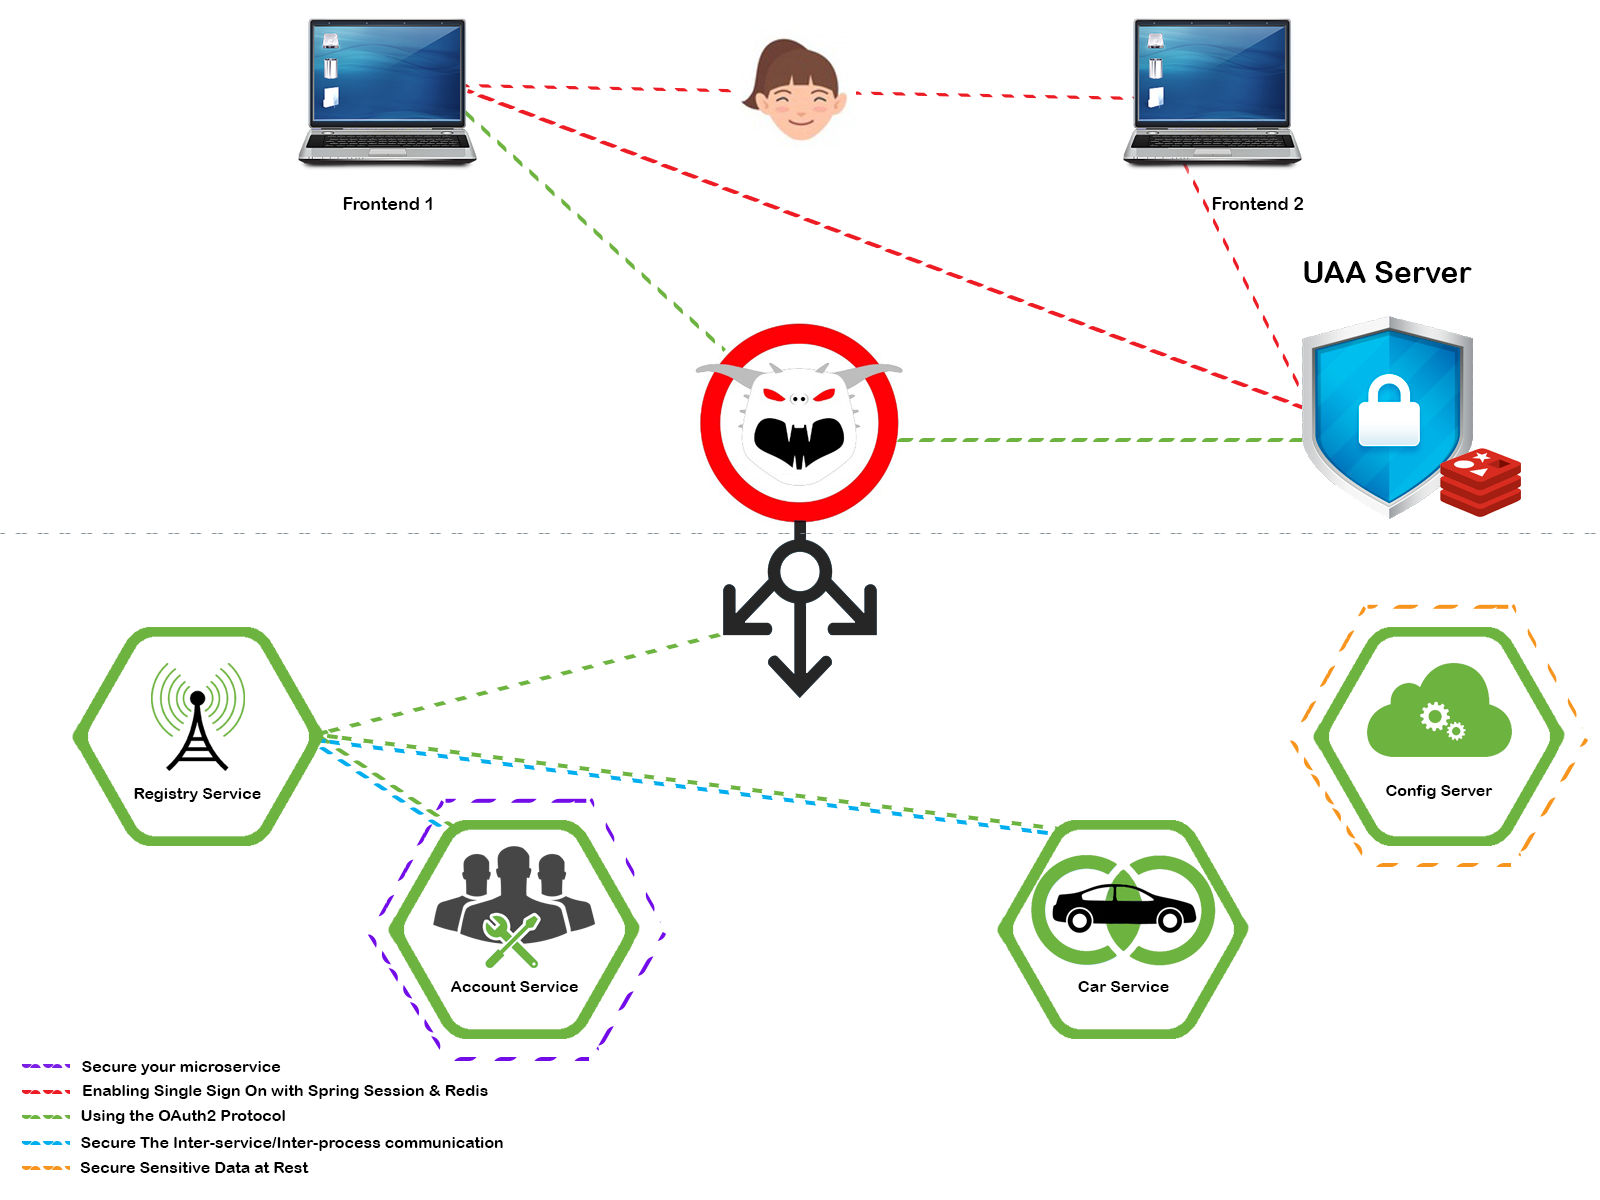
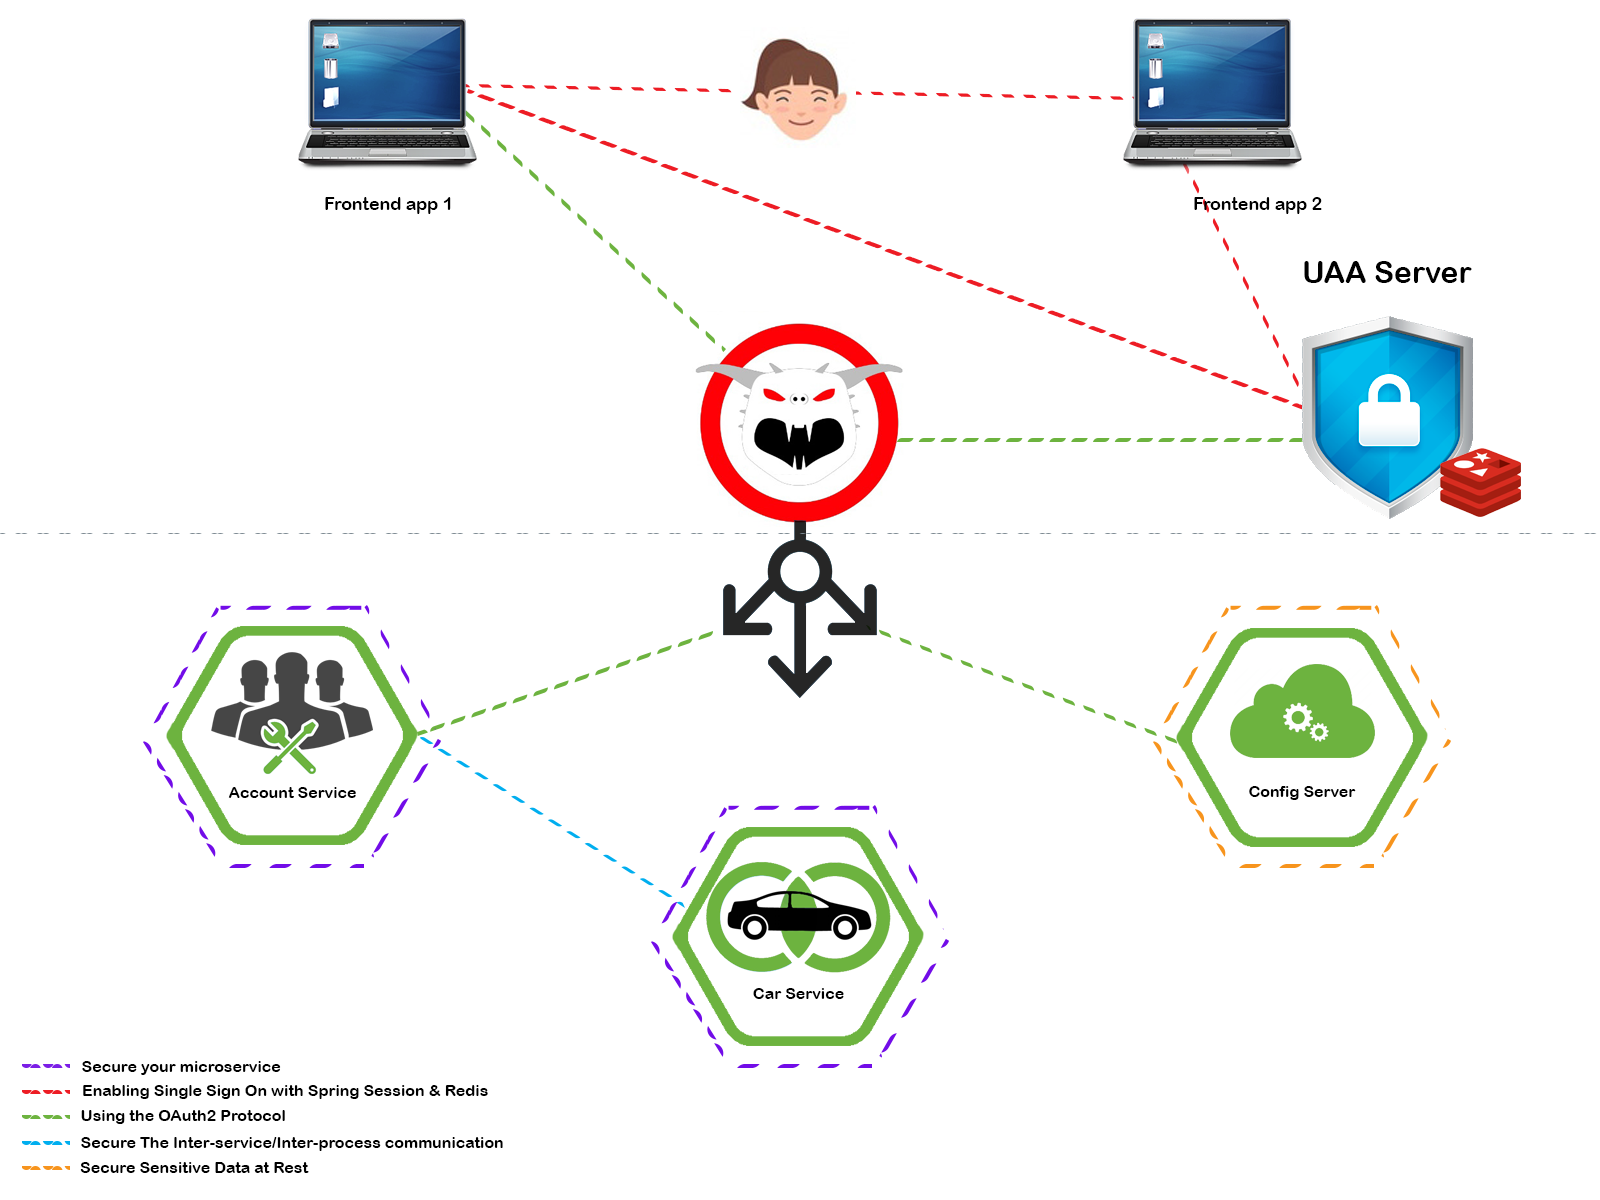
fix review 3

diff --git a/_posts/2017-09-04-Secure-your-architecture-part1.md b/_posts/2017-09-04-Secure-your-architecture-part1.md
@@ -10,7 +10,6 @@ comments: true
 
 When developing cloud-native microservices, we need to think about securing the data that is being propagated from one service to another service and securing the data at rest. 
 So how much security is enough to secure our architecture? Is it the user that identifies itself and decides what data he has access to?
-In this blog series I will cover these questions and guide you in applying the security layer to your cloud-native blueprint.
 
 # Overview
 * [Our cloud-native architecture](#our-cloud-native-architecture)
@@ -22,13 +21,10 @@ In this blog series I will cover these questions and guide you in applying the s
 * [Secure your microservice](#secure-your-microservice)
 
 # Our cloud-native architecture
-To visualize the security flow in a microservice based system, we are using the following example.
-These components are crucial for building a cloud-native architecture, using the [Spring ecosystem](https://spring.io/). 
-The technology can differ from project to project. 
-To facilitate understanding our example, the visual overview depicts the core components.
+In this blog series I will cover these questions and guide you in applying the security layer to your cloud-native blueprint.
+With this blueprint, we are going to use the [Spring ecosystem](https://spring.io/) throughout the series.
+All of these are crucial for building a cloud-native microservices architecture, but it should be technology-agnostic.
 * User Authentication & Authorization Server: [Spring Cloud Security OAuth2](https://spring.io/guides/tutorials/spring-boot-oauth2/)
-* Service Registry: [Spring Cloud Eureka](https://spring.io/blog/2015/01/20/microservice-registration-and-discovery-with-spring-cloud-and-netflix-s-eureka)
-* Resilience: [Spring Cloud Hystrix](https://spring.io/guides/gs/circuit-breaker/)
 * Load Balancer & Routing: [Spring Cloud Zuul](https://spring.io/guides/gs/routing-and-filtering/)
 * Communication client: [Spring Cloud Feign](http://projects.spring.io/spring-cloud/spring-cloud.html#spring-cloud-feign)
 * Externalized Config: [Spring Cloud Config Server](https://cloud.spring.io/spring-cloud-config/)
@@ -40,8 +36,8 @@ To facilitate understanding our example, the visual overview depicts the core co
 </div>
 
 # Where our journey begins...
-When it comes to users interacting with our system, we want to verify that the person can identify who he says he is.
-Most of the time this appears in a login form where you enter your credentials or in login page form a third party application (Facebook, Google, etc).
+When it comes to users interacting with our system, we want to verify that the person can identify him- or herself.
+Most of the time this appears in a login form where you enter your credentials or in a login page from a third party application (Facebook, Google, etc).
 
 <div class="row" style="margin: 0 auto 2.5rem auto; width: 100%;">
   <div class="col-md-offset-3 col-md-6" style="padding: 0;">
@@ -57,7 +53,7 @@ Authorization is the mechanism that uses the user's data to verify what he is al
 >For instance, who has access to which resources and what the access rights are (eg. execute or edit) to those resources.
 
 To use these two mechanisms in our system, we will be using a security protocol that fits our microservices architecture.
-Since we don't want everyone to log in separately in each service, we aim to have a single identity, that we only have to authenticate once.
+Since we don’t want everyone to have an account for each (micro)service, we aim to have one single identity per person so that the user needs to authenticate only once.
 
 # Using the OAuth2 Protocol
 When searching for a security protocol, we don't want to reinvent the wheel and looked at what is supported by the Spring framework.
@@ -65,26 +61,30 @@ Obviously, it depends on the use-case of the applications that require resources
 Is it a third party application like Facebook or a first party like your own application? Or both? 
 I will explain both [OAuth2](#oauth2-scopes) & [JSON Web Token](#jwt) and how they solve these requirements. 
 
-The OAuth2 delegation protocol allows us to secure the user's credentials from third- and first party applications and gain access to a microservice via a JWT.
-When introducing the OAuth2 framework to our system, we will be using three grant types. 
-These three grant types are different ways to obtain a JWT, some clients are more trusted than others. 
+The OAuth2 delegation protocol allows us to retrieve an access token from an idenity provider and gain access to a microservice by passing the token with subsequent requests.
+When introducing the OAuth2 framework to our system, we will be using four grant types. 
+These three grant types are different ways to obtain an access token, some clients are more trusted than others. 
 
 ### OAuth2 Grant Types
 
-#### Third party applications: Authorization Code grant type
-The most common used grant type for third party applications,
-where user's confidentiality can be maintained.
+#### Third party applications: Authorization Code grant type & Implicit grant type
+Authorization Code is the most common used grant type for third party applications, where user's confidentiality can be maintained.
 The user won't have to share his credentials with the application that is requesting resources from our backend. 
-This is a redirection-based flow, which means that the application must be capable of interacting with the user's web browser
-and receiving API authorization codes that are routed through the user's web browser.
+This is a redirection-based flow, which means that the application must be capable of interacting with the user's web browser.
 
 * The frontend (application) makes a request to the UAA server on behalf of the user
-* The UAA server opens a permission window for the user to grant permission, the user authenticates and grants permission
+* The UAA server redirects to a permission window of a third party for the user to grant permission, the user authenticates and grants permission
 * The UAA server returns an authorization code with a redirect url
-* The frontend uses the authorization code and an application identification to request a JWT token from the UAA server
-* The UAA verifies the authorization code and returns a JWT
+* The frontend uses the authorization code and an application identification to request an access token from the UAA server
+* The UAA verifies the authorization code and returns an access token
+
+> Implicit grant type follows the same principle as the Authorization Code type but does not exchange an authorization code to issue an access token.
 
 <script async class="speakerdeck-embed" data-id="57b5f3f256a3449b9b3038bc69bf2d5f" data-ratio="1.77777777777778" src="//speakerdeck.com/assets/embed.js"></script>
+
+
+<br />
+<br />
 
 #### First party applications: Password grant type
 This grant type is best used for first party applications,
@@ -97,9 +97,11 @@ The application authenticates on behalf of the user and receives the proper JWT.
 
 <script async class="speakerdeck-embed" data-id="1a77277934e14454bf3a66f22a31a26a" data-ratio="1.77777777777778" src="//speakerdeck.com/assets/embed.js"></script>
 
+<br />
+<br />
 
 #### Trusted Service to Service communication: Client Credentials grant type
-The trusted service can request a JWT using only its client-id and client-secret
+The trusted service can request an access token using only its client-id and client-secret
 when the client is requesting access to the protected resources under its control, 
 It is very important that the client credentials grant type MUST only be used by confidential clients.
 
@@ -108,10 +110,10 @@ It is very important that the client credentials grant type MUST only be used by
 
 
 ### OAuth2 Scopes
-OAuth 2.0 scopes provide a way to limit the amount of access that is granted to a JWT.
+OAuth 2.0 scopes provide a way to limit the amount of access that is granted to an access token.
 If the scope is not defined, the client is not limited by scope.
 
-> A JWT issued to a client can be granted READ or/and WRITE access to protected resources.
+> an access token issued to a client can be granted READ or/and WRITE access to protected resources.
 > If you enforce a WRITE scope to your API endpoint and it tries to call the endpoint with a token granted a READ scope, the call will fail
 
 <a name="jwt" />
@@ -252,16 +254,14 @@ public class Application {
 </div>
 </div>
 
-* The user logs into the UAA server and grants permission with frontend 1
+* The user logs into the UAA server and grants permission with frontend app 1
 * The UAA server creates a sessionID for this user
 * The redis database confirms the creation
-* After the redirect mechanism of the authorization grant, the UAA creates a cookie in the user’s browser with the user’s sessionID and returns a JWT token specific for that frontend
-* The frontend 2 uses the same browser (same sessionID cookie) to visit the UAA server
+* After the redirect mechanism of the authorization grant, the UAA creates a cookie in the user’s browser with the user’s sessionID and returns a JWT specific for that frontend
+* The frontend app 2 uses the same browser (same sessionID cookie) to visit the UAA server
 * The UAA finds a sessionID in the request and consults the redis database for its existence
 * The redis database confirms the existence
-* The UAA directly logs in frontend 2 and returns a JWT token specific to frontend 2
-
-
+* The UAA directly logs in frontend app 2 and returns a JWT specific to frontend app 2
 
 # Secure your microservice
 When enabling security in your service, the most common issues are developer-induced.
@@ -272,7 +272,7 @@ We are in a 'downstream service', where data is load balanced from Zuul.
 Next thing to question is, how do we decode this JWT? How can we secure our classes and methods with the help of Spring Security?
 
 ## Decoding the JWT
-It is the responsibility of a microservice (Resource Server) to extract information about the user and client application from the JWT token and make an access decision based on that information.
+It is the responsibility of a microservice (Resource Server) to extract information about the user and client application from the JWT and make an access decision based on that information.
 Decoding the JWT allows extraction of the users information and allows putting it in the security context.
 Spring Security will assemble a Principal with this information to use.
 When enabling Spring Security, we want to decode the JWT at the beginning of our chain so that the rest of the chain can work with the data retrieved from the JWT.
